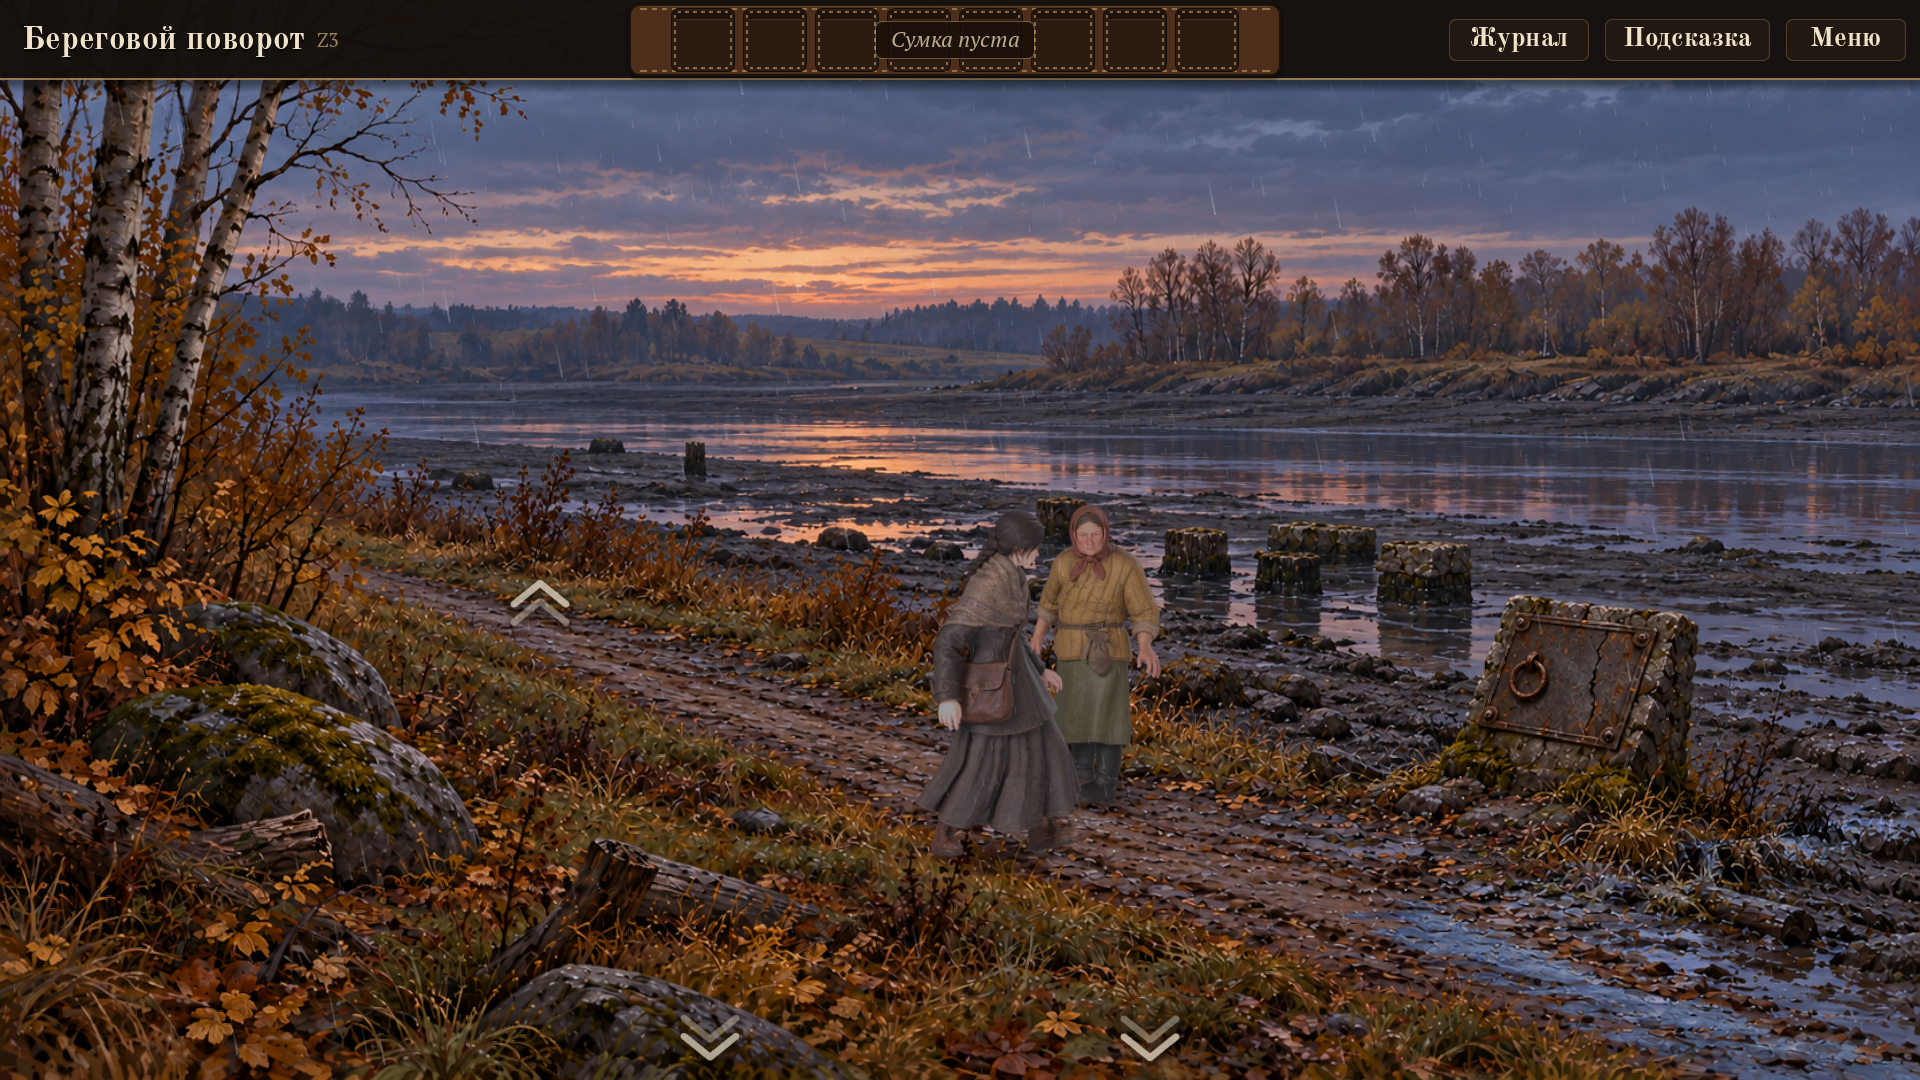
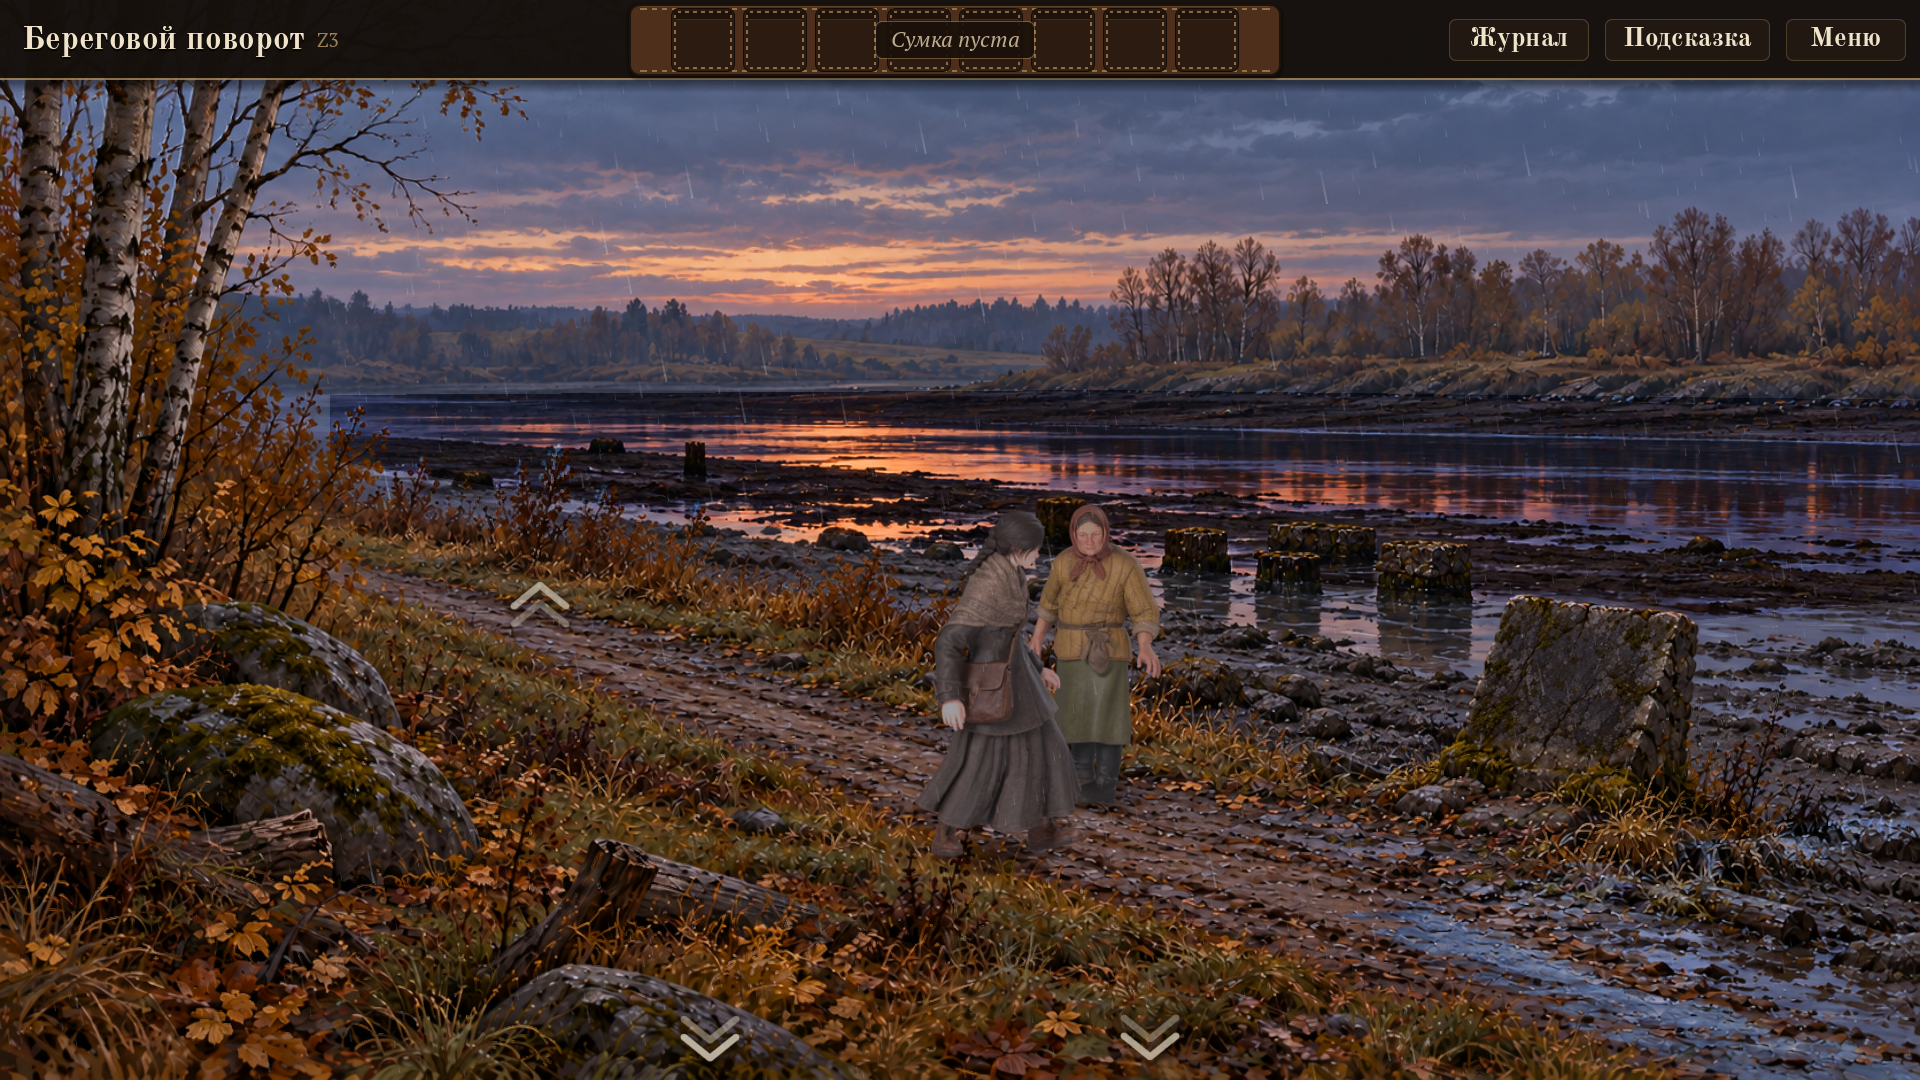
Партия 7 в игру: надписи мелом на доске O1 и береговой камень без плиты Z3
- O1: «Мама, я иду» и «Илюша, / я нашла твой рисунок» — рисунки мелом (слои к O1_bg, 1672×940 → 941) вместо
  текстовых заглушек; на доске всегда ровно одна надпись (проверки test_day_one, run_tests).
- Z3: камень у воды без железной плиты (плита моста — на опоре под водой): днём — поверх фона, вечером — поверх
  слоя спущенной воды партии 3 в тоне сумерек (слой с modulate), иначе вечером на камне снова кольцо и трещина.
  Хотспот камня — «Камень на берегу»: «Большой мшистый камень у воды. Плита с Дуниного листа не здесь — она на
  опоре, под водой.» (текст без голоса до перезаписи).
- Движок: слой комнаты принимает modulate "#rrggbb".
- assets/manifest.json (O1_board_variants, Z3_shore_stone_day1 — imported), ASSET_PROVENANCE.

Claude-Session: https://claude.ai/code/session_01Qvdjz1zmfr41cRSvLxvjeK

diff --git a/Docs/ASSET_PROVENANCE.md b/Docs/ASSET_PROVENANCE.md
@@ -72,3 +72,6 @@
 - Комнаты (копии `tools/import_room_art.py <LOC>` по `art_source` комнаты): H2 — `state_office_mirror` (зеркало конторы в стойке на левом верстаке); Z3 — `state_water_low` (спущенная вода в сумерках, полный слой, прозрачность не чистится); R1 — `dusk`, `far_dark`, `far_snow`, `far_lights`; R2 — `bg`, `fg_rope`; R3 — `bg`, `fg_pier`, `fg_rope_stop`.
 - Крупные планы (копии `tools/import_closeups.py`, без уменьшения, прозрачность слоёв сохранена; большие непрозрачные — импорт Godot с потерями): `M3_view_bg/light/hook/bar_down`, `O3_bg`, `O3_clock_face/pendulum/hand_min/hand_hour`, `O3_candle_flame`, `closeup_plate`, `closeup_plate_skoba`, `closeup_plate_rope`, `closeup_lantern_closed/open`, `closeup_office_photo`. `M3_view_bar_up` не копируется: поднятый засов — тот же слой со сдвигом на 46 px (bar_up_translation_px поставки).
 - Остаётся движком: силуэт Нины (позы не поставлены; 3D-Нина — конвейер pipeline-character), ответ того берега в крупном плане фонаря (мягкие огни поверх картины), клинья у стойки, канат при перетаскивании до узла. Права — как у арта ChatGPT (план Директора).
+
+## 2026-10-22 — партия 7 (ChatGPT): надписи мелом O1, береговой камень без плиты Z3
+- ChatGPT imagegen, `assets/incoming/_meta_p7/` (README_RU.txt, MANIFEST.json, GENERATION_PROMPTS.txt), коммит 3c0f843. Копии — `tools/import_room_art.py O1` (O1_state_board_mama / _ilya, холст 1672×940 дополнен до 941 прозрачной строкой) и `tools/import_room_art.py Z3` (Z3_state_stone_no_plate). Слой камня вечером ложится и поверх слоя спущенной воды партии 3 с умножением в тон сумерек (#8c8a9c) — иначе вечерний слой снова рисовал бы на камне кольцо и трещину. Права — как у арта ChatGPT.
